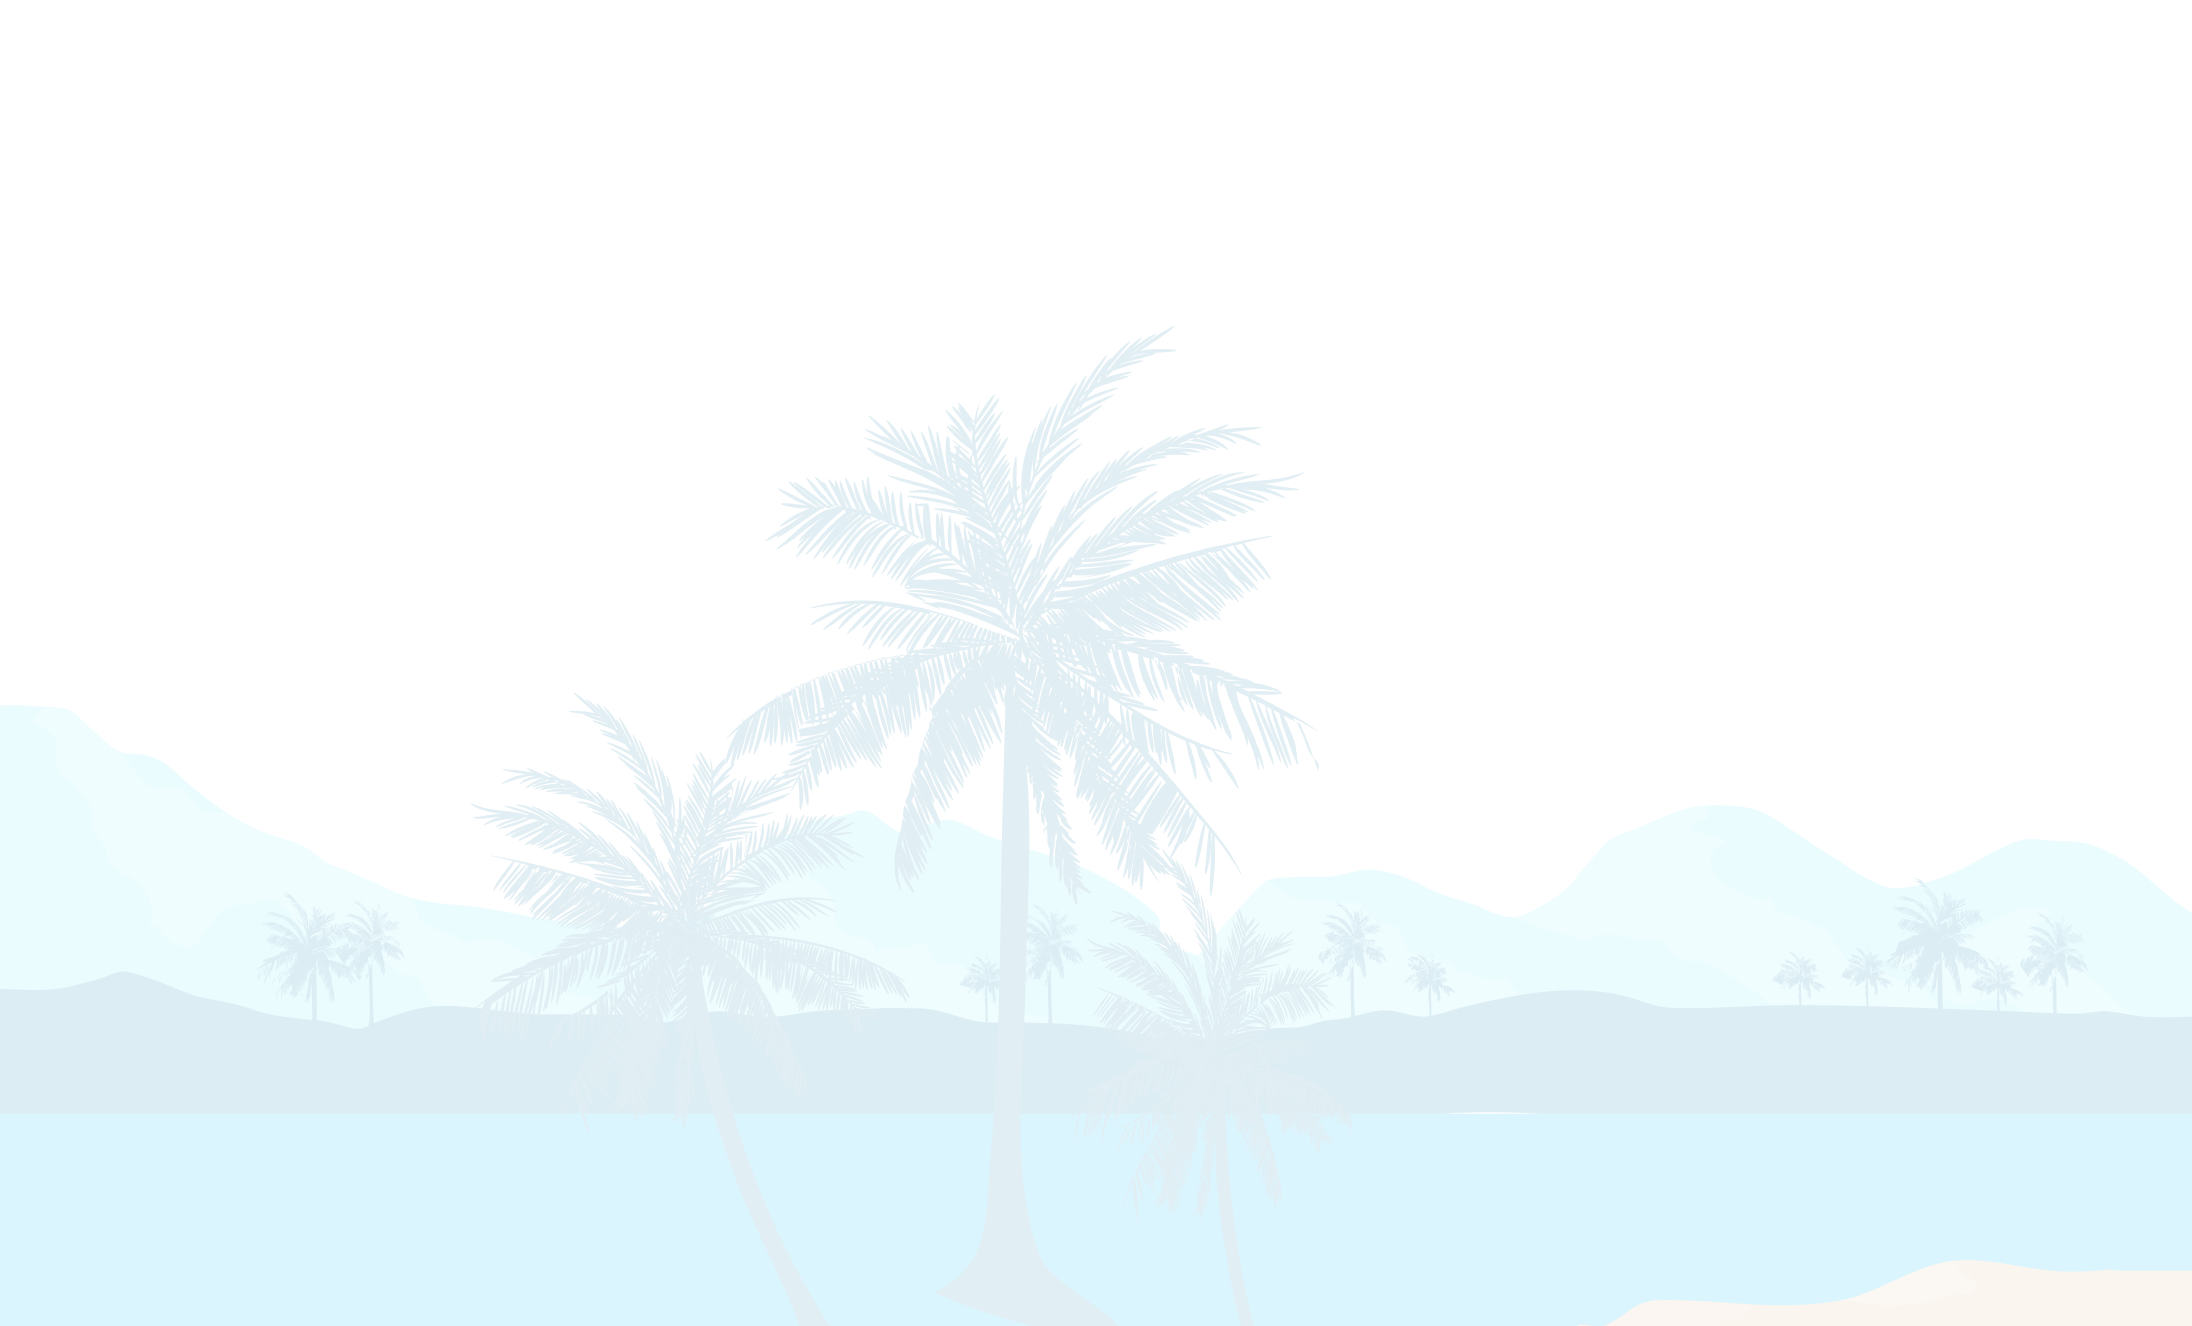
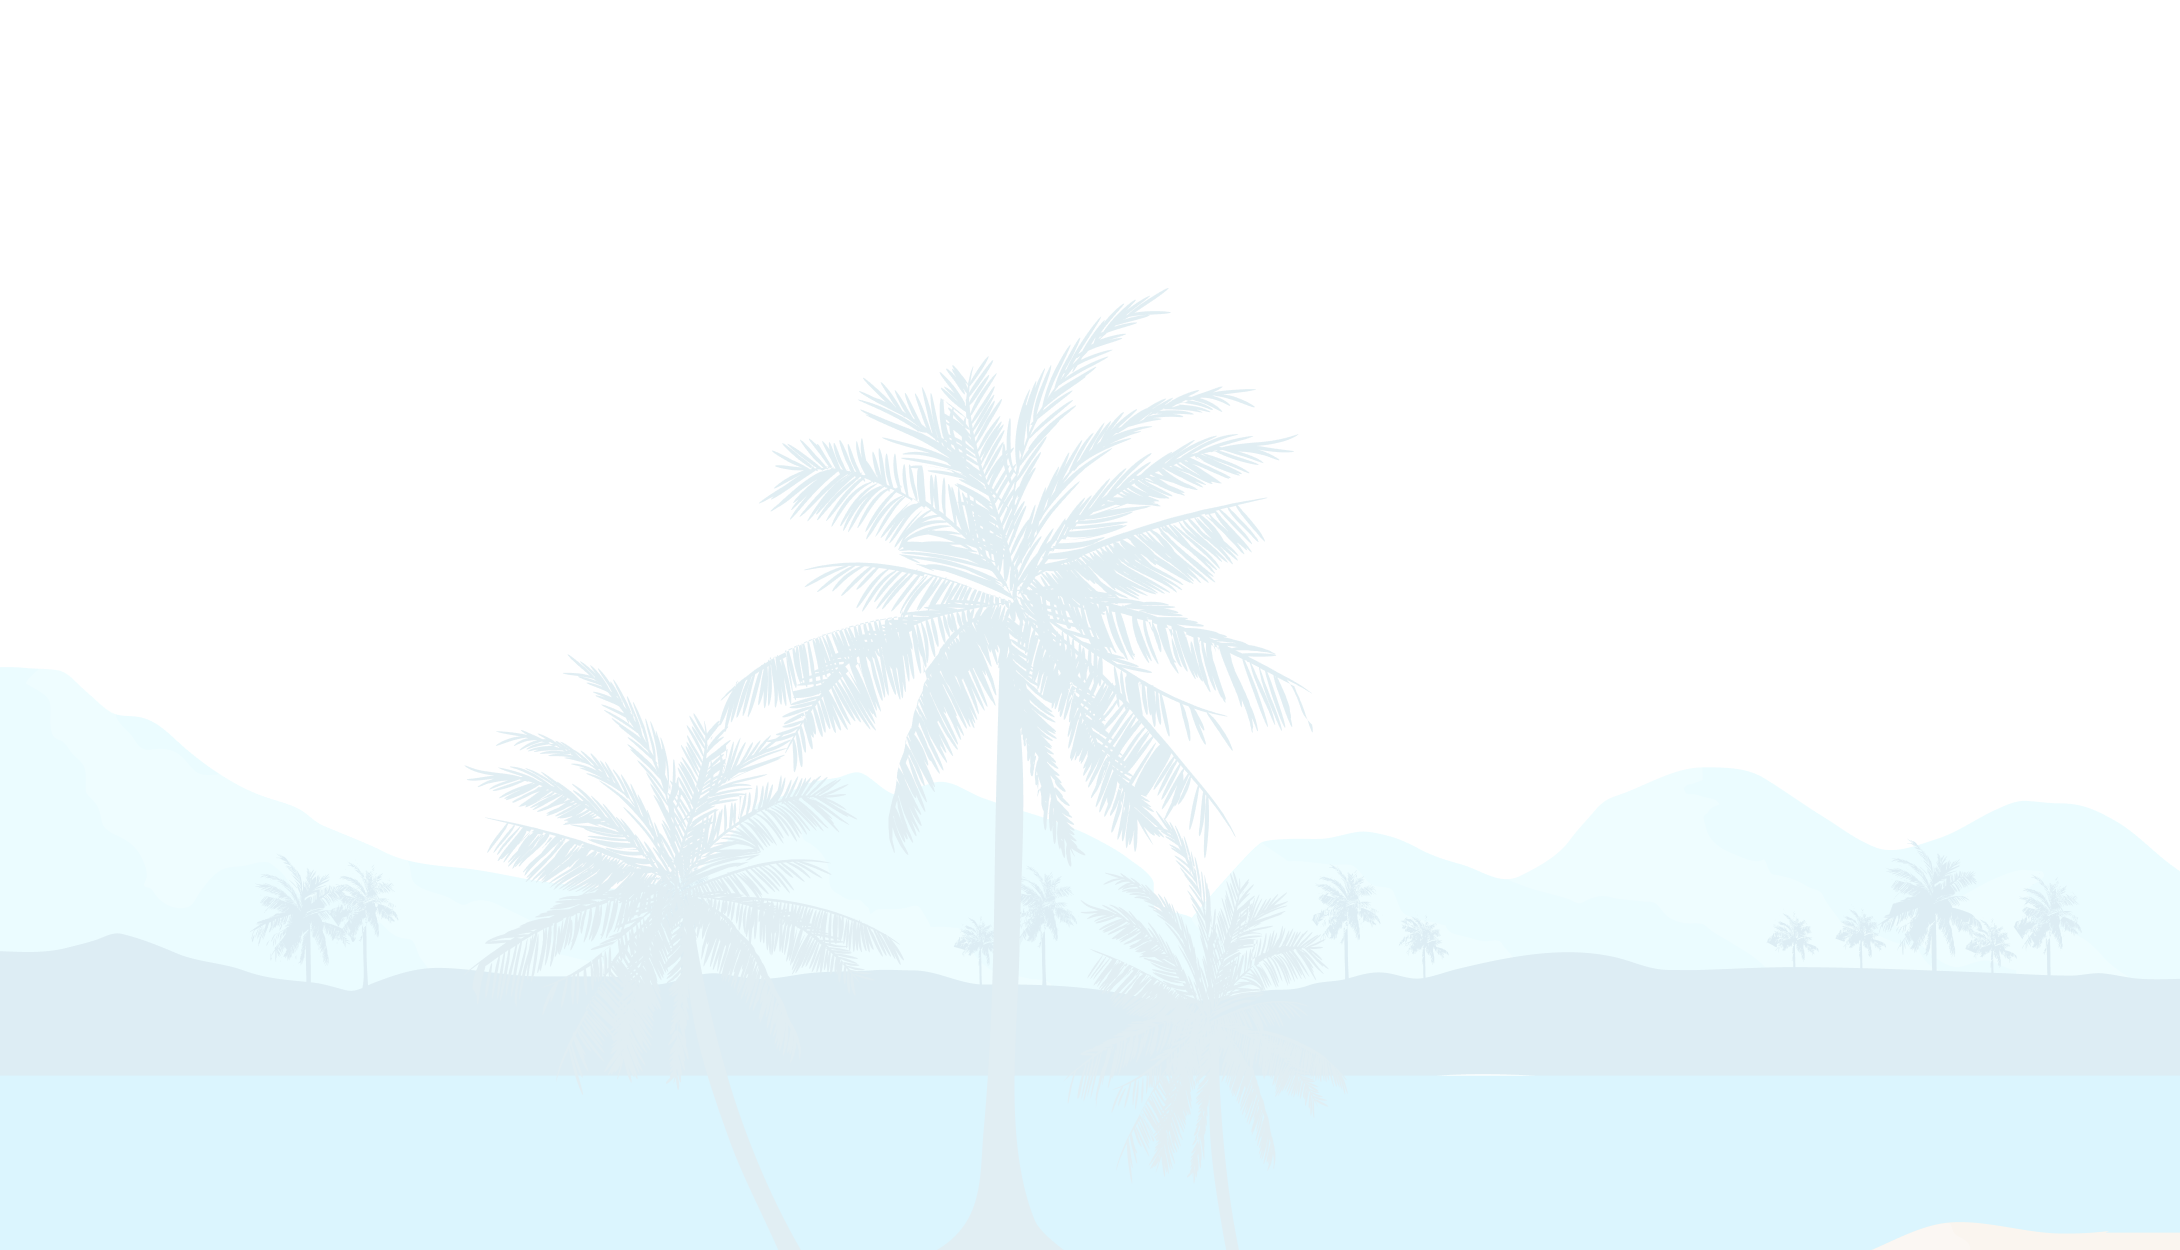
правки по дизайну

diff --git a/src/js/_mode.js b/src/js/_mode.js
@@ -2,6 +2,25 @@ const $wrapper = document.querySelector('.card');
 const $button = document.querySelector('.j_settings');
 if ($button) $button.addEventListener('click', toggleControls);
 
+const $times = document.querySelectorAll('[type="time"]');
+if ($times.length) {
+  $times.forEach(($time) =>
+    $time.addEventListener('change', setTime.bind(this))
+  );
+}
+
 function toggleControls() {
   $wrapper.classList.toggle('settings');
+}
+
+function setTime(e) {
+  const value = e.target.value;
+  if (value) {
+    const $wrapper = e.target.closest('label');
+    const $value = $wrapper.querySelector('.mode-task-set__time');
+
+    if ($value) {
+      $value.textContent = value;
+    }
+  }
 }

diff --git a/src/mood.html b/src/mood.html
@@ -193,10 +193,10 @@
               <div class="mood-stat">
                 <div class="mood-stat__inner">
                   <div
-                    class="mood-stat__assessment mood-stat__assessment--green-yellow"
+                    class="mood-stat__assessment mood-stat__assessment--yellow-green"
                   >
                     <svg class="svg">
-                      <use xlink:href="#mood_red"></use>
+                      <use xlink:href="#mood_yellow-green"></use>
                     </svg>
                   </div>
 

diff --git a/src/sass/components/header.scss b/src/sass/components/header.scss
@@ -14,7 +14,7 @@
     left: 50%;
     z-index: -2;
     width: 170%;
-    height: 320px;
+    height: 150px;
     overflow: hidden;
     border-radius: 100% / 100%;
     transform: translateX(-50%);
@@ -23,12 +23,13 @@
   &__bg {
     position: absolute;
     top: 0;
-    left: 0;
+    left: 50%;
     display: block;
-    width: 100%;
+    width: 100vw;
     height: 100%;
+    transform: translateX(-50%);
     object-fit: cover;
-    border-radius: 100% / 100%;
+    // border-radius: 100% / 100%;
     object-position: bottom;
   }
 

diff --git a/src/sass/sections/greeting.scss b/src/sass/sections/greeting.scss
@@ -29,8 +29,10 @@
 .greeting__item {
   display: inline-flex;
   align-items: center;
+  max-width: calc(100% - 15px);
   padding: 5px 15px;
-  margin-left: 15px;
+  margin-right: 0;
+  margin-left: auto;
   font-size: 16px;
   line-height: 1.625;
   background-color: $white;
@@ -42,7 +44,7 @@
   }
 
   &--my {
-    margin-right: 15px;
+    margin-right: auto;
     margin-left: 0;
     background-color: $turq;
   }

diff --git a/src/sass/sections/bonus-tasks.scss b/src/sass/sections/bonus-tasks.scss
@@ -94,13 +94,15 @@
     display: block;
     font-size: 14px;
     font-weight: bold;
+    line-height: 1.3;
   }
 
   &__text {
     display: block;
     margin-top: 3px;
-    font-size: 12px;
+    font-size: 14px;
     font-weight: normal;
+    line-height: 1.3;
   }
 
   &__tag {

diff --git a/src/sass/sections/mood-stats.scss b/src/sass/sections/mood-stats.scss
@@ -71,7 +71,10 @@
     &--yellow {
       background-color: $yellow;
     }
-    &--green-yellow {
+    &--yellow-orange {
+      background-color: $yellow-orange;
+    }
+    &--yellow-green {
       background-color: $green-yellow;
     }
     &--green {

diff --git a/src/js/modules/Player.js b/src/js/modules/Player.js
@@ -134,6 +134,8 @@ export default class Player {
         ],
       };
 
+      this.$currentTime = this.$container.querySelector('.plyr__time--current');
+
       if (poster) {
         this.player.poster = poster;
       } else {

diff --git a/src/sass/variables/modals.scss b/src/sass/variables/modals.scss
@@ -901,9 +901,14 @@
   overflow-x: hidden;
 
   .modal {
+    display: inline-flex;
     height: auto;
     min-height: 100%;
     background: $gr-body;
+
+    .modal-wrap {
+      height: auto;
+    }
   }
 
   .modal-body {

diff --git a/src/sass/sections/my-settings.scss b/src/sass/sections/my-settings.scss
@@ -228,8 +228,8 @@
 
   &__icon {
     display: block;
-    width: 25px;
-    height: 25px;
+    width: 30px;
+    height: 30px;
     fill: $gray;
   }
 

diff --git a/src/sass/sections/water.scss b/src/sass/sections/water.scss
@@ -1,5 +1,5 @@
 .water-section {
-  min-height: $screen-height;
+  // min-height: $screen-height;
   overflow: hidden;
 }
 

diff --git a/src/sass/sections/sleep.scss b/src/sass/sections/sleep.scss
@@ -1,5 +1,5 @@
 .sleep-section {
-  min-height: 100vh;
+  // min-height: 100vh;
   overflow: hidden;
 }
 
